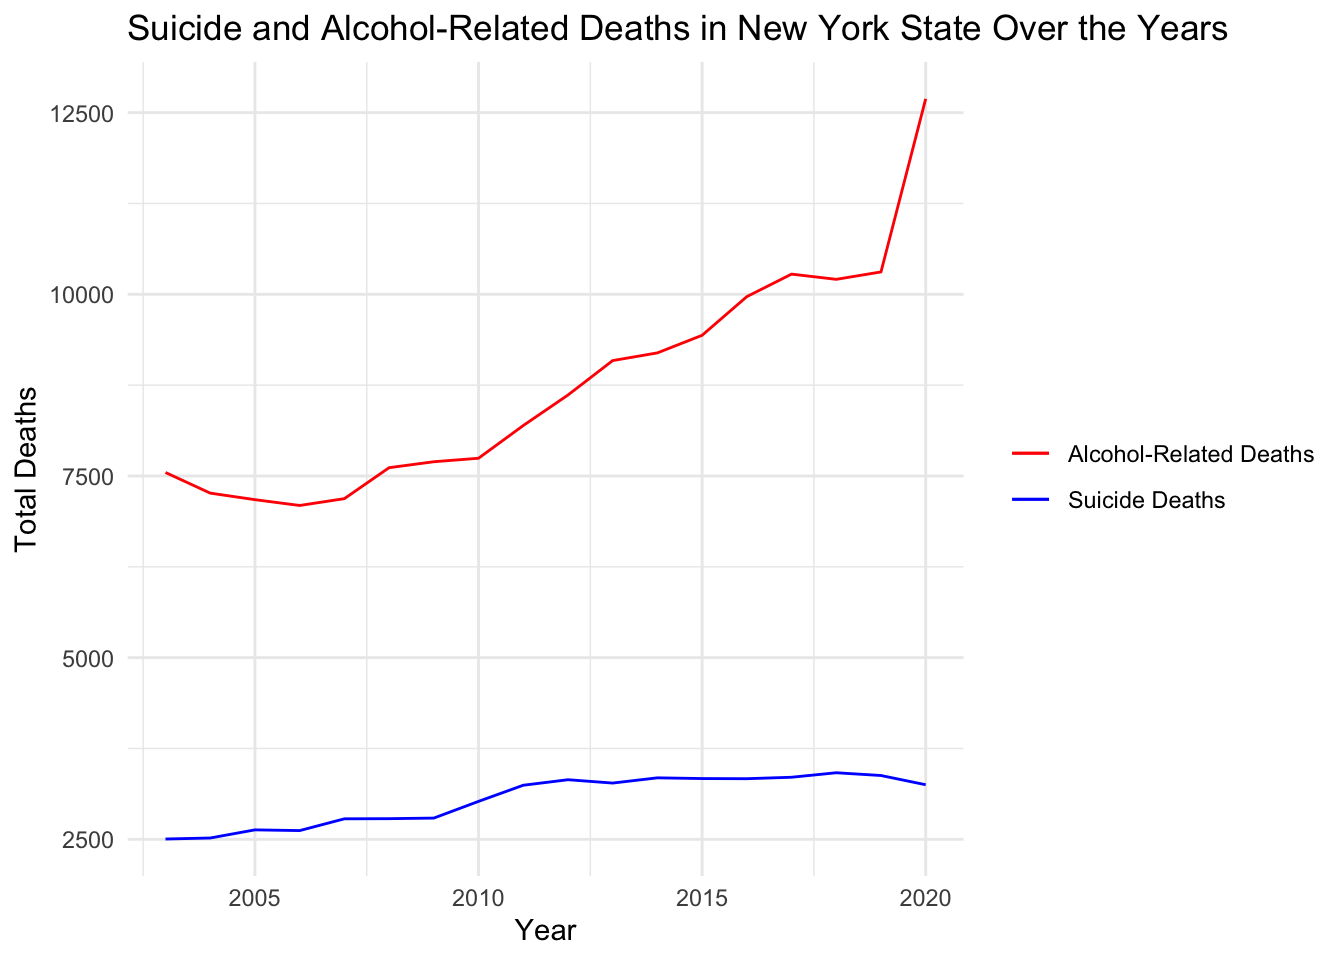
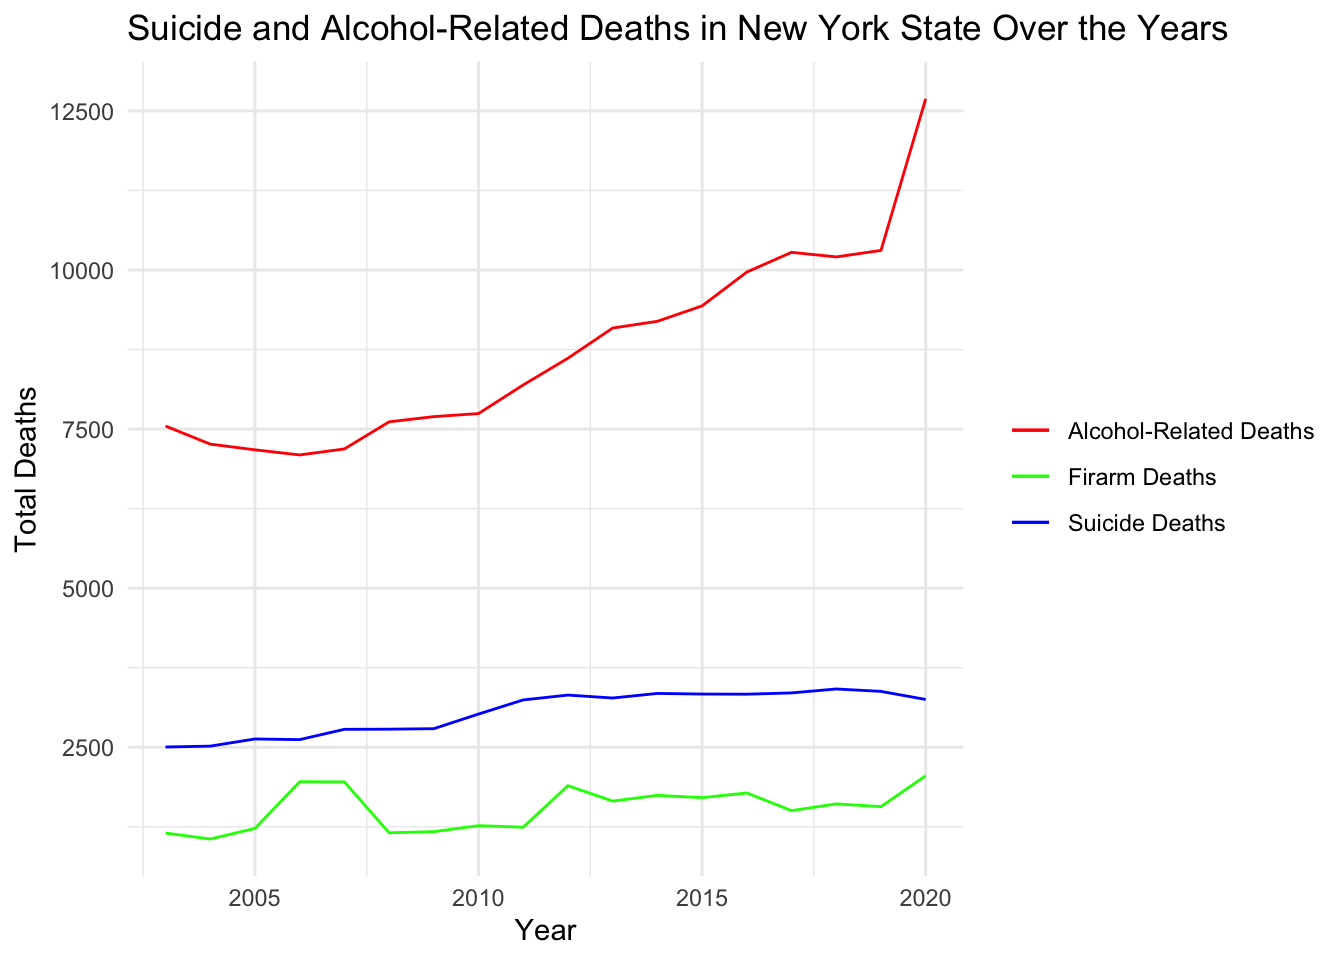
line plot

diff --git a/docs/results.html b/docs/results.html
@@ -236,18 +236,20 @@ Attaching package: 'dplyr'</code></pre>
 <span id="cb5-6"><a href="#cb5-6" aria-hidden="true" tabindex="-1"></a>annual_summary <span class="ot">&lt;-</span> death_data <span class="sc">%&gt;%</span></span>
 <span id="cb5-7"><a href="#cb5-7" aria-hidden="true" tabindex="-1"></a>  <span class="fu">group_by</span>(Year) <span class="sc">%&gt;%</span></span>
 <span id="cb5-8"><a href="#cb5-8" aria-hidden="true" tabindex="-1"></a>  <span class="fu">summarise</span>(<span class="at">Suicide_Total =</span> <span class="fu">sum</span>(Suicide.Deaths, <span class="at">na.rm =</span> <span class="cn">TRUE</span>),</span>
-<span id="cb5-9"><a href="#cb5-9" aria-hidden="true" tabindex="-1"></a>            <span class="at">Alcohol_Related_Total =</span> <span class="fu">sum</span>(Alcohol.Related.Deaths, <span class="at">na.rm =</span> <span class="cn">TRUE</span>))</span>
-<span id="cb5-10"><a href="#cb5-10" aria-hidden="true" tabindex="-1"></a></span>
-<span id="cb5-11"><a href="#cb5-11" aria-hidden="true" tabindex="-1"></a><span class="co"># Plotting both Suicide and Alcohol-Related Deaths Over Years</span></span>
-<span id="cb5-12"><a href="#cb5-12" aria-hidden="true" tabindex="-1"></a><span class="fu">ggplot</span>() <span class="sc">+</span></span>
-<span id="cb5-13"><a href="#cb5-13" aria-hidden="true" tabindex="-1"></a>  <span class="fu">geom_line</span>(<span class="at">data =</span> annual_summary, <span class="fu">aes</span>(<span class="at">x =</span> Year, <span class="at">y =</span> Suicide_Total, <span class="at">color =</span> <span class="st">"Suicide Deaths"</span>)) <span class="sc">+</span></span>
-<span id="cb5-14"><a href="#cb5-14" aria-hidden="true" tabindex="-1"></a>  <span class="fu">geom_line</span>(<span class="at">data =</span> annual_summary, <span class="fu">aes</span>(<span class="at">x =</span> Year, <span class="at">y =</span> Alcohol_Related_Total, <span class="at">color =</span> <span class="st">"Alcohol-Related Deaths"</span>)) <span class="sc">+</span></span>
-<span id="cb5-15"><a href="#cb5-15" aria-hidden="true" tabindex="-1"></a>  <span class="fu">labs</span>(<span class="at">title =</span> <span class="st">"Suicide and Alcohol-Related Deaths in New York State Over the Years"</span>,</span>
-<span id="cb5-16"><a href="#cb5-16" aria-hidden="true" tabindex="-1"></a>       <span class="at">x =</span> <span class="st">"Year"</span>,</span>
-<span id="cb5-17"><a href="#cb5-17" aria-hidden="true" tabindex="-1"></a>       <span class="at">y =</span> <span class="st">"Total Deaths"</span>) <span class="sc">+</span></span>
-<span id="cb5-18"><a href="#cb5-18" aria-hidden="true" tabindex="-1"></a>  <span class="fu">scale_color_manual</span>(<span class="at">values =</span> <span class="fu">c</span>(<span class="st">"Suicide Deaths"</span> <span class="ot">=</span> <span class="st">"blue"</span>, <span class="st">"Alcohol-Related Deaths"</span> <span class="ot">=</span> <span class="st">"red"</span>)) <span class="sc">+</span></span>
-<span id="cb5-19"><a href="#cb5-19" aria-hidden="true" tabindex="-1"></a>  <span class="fu">theme_minimal</span>() <span class="sc">+</span></span>
-<span id="cb5-20"><a href="#cb5-20" aria-hidden="true" tabindex="-1"></a>  <span class="fu">theme</span>(<span class="at">legend.title =</span> <span class="fu">element_blank</span>())</span></code><button title="Copy to Clipboard" class="code-copy-button"><i class="bi"></i></button></pre></div>
+<span id="cb5-9"><a href="#cb5-9" aria-hidden="true" tabindex="-1"></a>            <span class="at">Alcohol_Related_Total =</span> <span class="fu">sum</span>(Alcohol.Related.Deaths, <span class="at">na.rm =</span> <span class="cn">TRUE</span>),</span>
+<span id="cb5-10"><a href="#cb5-10" aria-hidden="true" tabindex="-1"></a>            <span class="at">Firarm_Total =</span> <span class="fu">sum</span>(Firearm.Deaths, <span class="at">na.rm =</span> <span class="cn">TRUE</span>))</span>
+<span id="cb5-11"><a href="#cb5-11" aria-hidden="true" tabindex="-1"></a></span>
+<span id="cb5-12"><a href="#cb5-12" aria-hidden="true" tabindex="-1"></a><span class="co"># Plotting both Suicide and Alcohol-Related Deaths Over Years</span></span>
+<span id="cb5-13"><a href="#cb5-13" aria-hidden="true" tabindex="-1"></a><span class="fu">ggplot</span>() <span class="sc">+</span></span>
+<span id="cb5-14"><a href="#cb5-14" aria-hidden="true" tabindex="-1"></a>  <span class="fu">geom_line</span>(<span class="at">data =</span> annual_summary, <span class="fu">aes</span>(<span class="at">x =</span> Year, <span class="at">y =</span> Suicide_Total, <span class="at">color =</span> <span class="st">"Suicide Deaths"</span>)) <span class="sc">+</span></span>
+<span id="cb5-15"><a href="#cb5-15" aria-hidden="true" tabindex="-1"></a>  <span class="fu">geom_line</span>(<span class="at">data =</span> annual_summary, <span class="fu">aes</span>(<span class="at">x =</span> Year, <span class="at">y =</span> Alcohol_Related_Total, <span class="at">color =</span> <span class="st">"Alcohol-Related Deaths"</span>)) <span class="sc">+</span></span>
+<span id="cb5-16"><a href="#cb5-16" aria-hidden="true" tabindex="-1"></a>  <span class="fu">geom_line</span>(<span class="at">data =</span> annual_summary, <span class="fu">aes</span>(<span class="at">x =</span> Year, <span class="at">y =</span> Firarm_Total, <span class="at">color =</span> <span class="st">"Firarm Deaths"</span>)) <span class="sc">+</span></span>
+<span id="cb5-17"><a href="#cb5-17" aria-hidden="true" tabindex="-1"></a>  <span class="fu">labs</span>(<span class="at">title =</span> <span class="st">"Suicide and Alcohol-Related Deaths in New York State Over the Years"</span>,</span>
+<span id="cb5-18"><a href="#cb5-18" aria-hidden="true" tabindex="-1"></a>       <span class="at">x =</span> <span class="st">"Year"</span>,</span>
+<span id="cb5-19"><a href="#cb5-19" aria-hidden="true" tabindex="-1"></a>       <span class="at">y =</span> <span class="st">"Total Deaths"</span>) <span class="sc">+</span></span>
+<span id="cb5-20"><a href="#cb5-20" aria-hidden="true" tabindex="-1"></a>  <span class="fu">scale_color_manual</span>(<span class="at">values =</span> <span class="fu">c</span>(<span class="st">"Suicide Deaths"</span> <span class="ot">=</span> <span class="st">"blue"</span>, <span class="st">"Alcohol-Related Deaths"</span> <span class="ot">=</span> <span class="st">"red"</span>, <span class="st">"Firarm Deaths"</span> <span class="ot">=</span> <span class="st">"green"</span>)) <span class="sc">+</span></span>
+<span id="cb5-21"><a href="#cb5-21" aria-hidden="true" tabindex="-1"></a>  <span class="fu">theme_minimal</span>() <span class="sc">+</span></span>
+<span id="cb5-22"><a href="#cb5-22" aria-hidden="true" tabindex="-1"></a>  <span class="fu">theme</span>(<span class="at">legend.title =</span> <span class="fu">element_blank</span>())</span></code><button title="Copy to Clipboard" class="code-copy-button"><i class="bi"></i></button></pre></div>
 </details>
 <div class="cell-output-display">
 <p><img src="results_files/figure-html/unnamed-chunk-1-1.png" class="img-fluid" width="672"></p>
